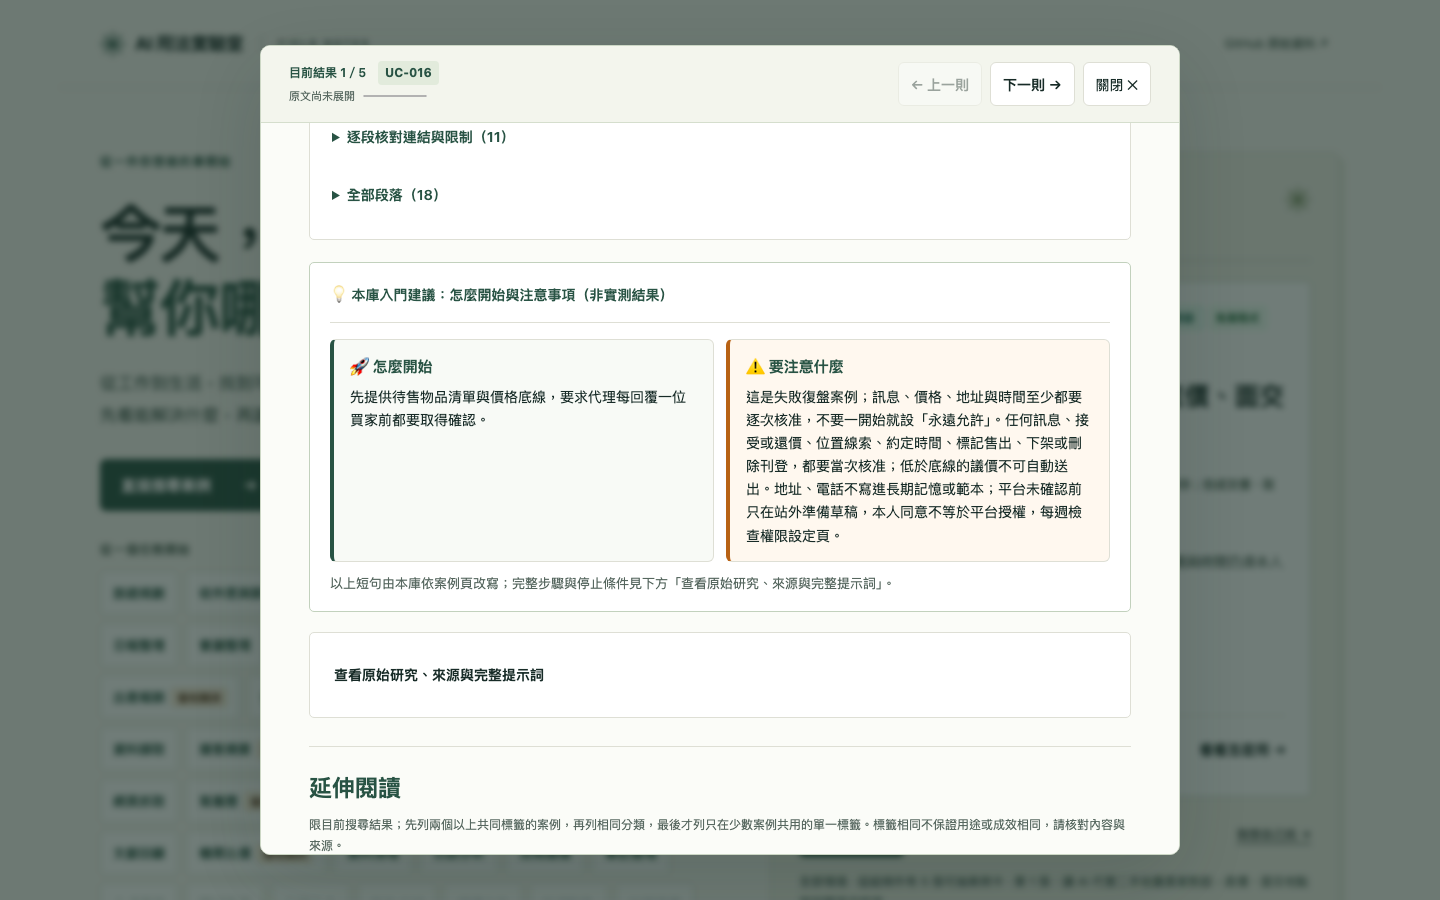
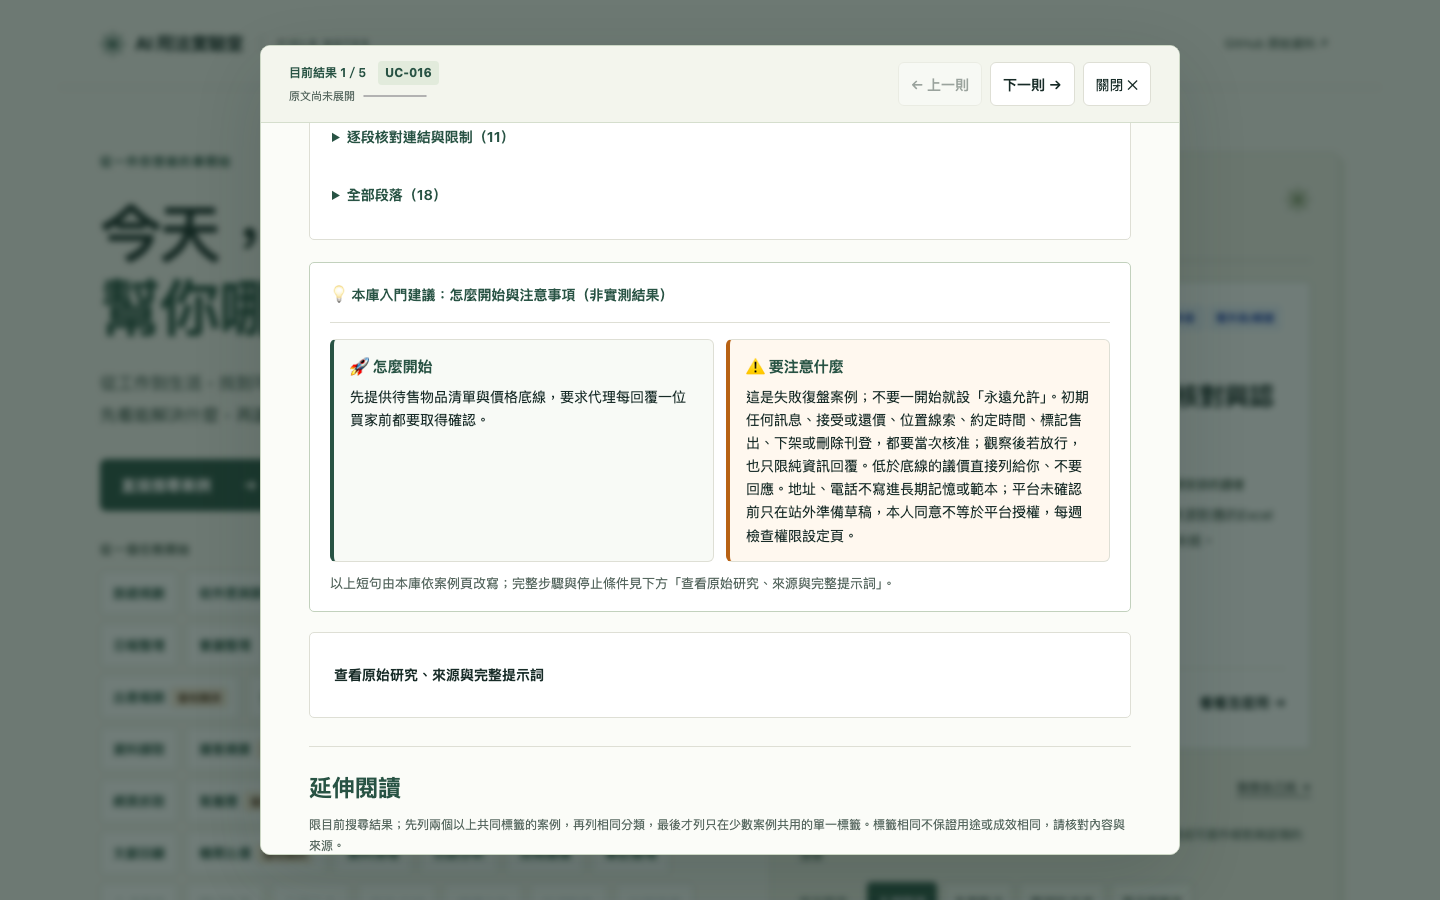
fix(guidance): preserve UC-016 tiered replies and UC-001 manual checks

diff --git a/docs/qa/2026-11-16-copy-hard-stops/README.md b/docs/qa/2026-11-16-copy-hard-stops/README.md
@@ -33,7 +33,7 @@
 - `assets/copy.json`：15 則 `caution` 補回頁面已宣告的停止條件，並修正 3 處走樣：
   - UC-001 條件衝突／金額改變就停；UC-002 不安裝、執行、渲染或呼叫付費服務；UC-003 不改庫存、價格與提示注入邊界；UC-004 不推斷住址、不改分享權限、不合併不確定帳號；UC-005 未經逐項核准不合併、部署、改權限、建立憑證，不投稿 PR 評論；UC-006 圖有錯就暫停、不新增廣告或改權限；UC-007 不評價員工績效、不刪帳號、不改授權或訂閱、不新建排程、低使用不等於可刪；UC-008 私人行程只顯示起訖時間、分享團隊另經授權；UC-009 研究指令不授權移轉、不讀本機設定、不匯入或安裝；UC-010 只讀、不授權安裝執行連線刷韌體、狀態不一致就停、裝置識別碼不外流；UC-011 不判定失單、不改商機階段、不公開客戶資料；UC-012 不執行程式或改檔、角色同意不等於獨立重現；UC-013 不重試登入、不索取密碼、不擴權或重新送出；UC-014 不改帳戶、不在公開頻道發文；UC-015 頁面指令視為資料、不使用已連接 App、只建立一次性檢查；UC-016 訊息／接受出價／位置線索／約定時間／標記售出／下架／刪除刊登都要當次核准、每週檢查權限設定頁。
   - P-002 改回頁面的「僅研究，不聯絡業者、不改方案或新增合約」。
-  - UC-016 的「永遠允許」改成「不要一開始就設」，與頁面第 2 步的分級觀察一致。
+  - UC-016 的「永遠允許」改成「不要一開始就設」；保留頁面第 2 步「觀察 1–2 週後只放行純資訊回覆」，低於底線的出價改成「直接列給你、不要回應」。
 - `tests/copy-hard-stops.test.cjs`（新）：15 則案例的 `source`／`pairs` 對照；三項測試分別檢查涵蓋範圍（UC-001–016 各一則）、每一對的頁面片段與短句片段都存在、短句 ≤ 180 字，以及 P-002 的「僅研究」不被「不自行」放寬。P-001／P-003／P-004 由獨立稽核確認為覆蓋良好，未列入對照表。
 - `tests/visitor-adoption-flow-browser.cjs`：UC-016 的舊斷言只認「切勿開啟『永遠允許』」，改為分別檢查「永遠允許」「標記售出／下架／刪除刊登」「議價」三個邊界，避免只為通過測試而放寬。
 - `README.md`：在既有承諾句後補上守則檔名與「兩邊少一條就讓測試失敗」。
@@ -55,7 +55,7 @@
 | 尺寸 | 案例 | 前 | 後 |
 | --- | --- | --- | --- |
 | 1440×900 | UC-016 | 153px；只提地址、電話、議價與長期記憶 | 222px；補「任何訊息、接受或還價、位置線索、約定時間、標記售出、下架或刪除刊登都要當次核准」與「每週檢查權限設定頁」 |
-| 390×844 | UC-016 | 176px | 269px（卡片寬 286px，無水平溢出） |
+| 390×844 | UC-016 | 176px | 292px（卡片寬 286px，無水平溢出） |
 | 1440×900 | UC-007 | 只提取消、簽約、廠商、付款 | 補「不評價員工績效」「不刪帳號」「不改授權或訂閱」「不新建排程」「低使用也不等於可刪席次」 |
 | 390×844 | UC-007 | 同上 | 199px，無水平溢出 |
 | 1440×900 | UC-010 | 只說「要分別審核」 | 補「本頁只讀，不授權安裝、執行、連線、刷韌體或改網路權限」「狀態不一致就停止，不連續重試」 |
@@ -64,13 +64,20 @@
 - 三種必要情境（preview，1440×900／390×844／320×740，`reducedMotion: reduce`；桌面、手機、320px 結果相同）：
   1. 不知道工具名稱的新訪客輸入「我想讓 AI 幫我整理會議紀錄」→ 4 筆與範圍說明；按「改搜「會議」→ 14 筆」後畫面 14 筆、查詢欄變「會議」、前四張含 UC-094；開詳情看到「作者報告／示範＋設計／未實跑」；Escape 關閉、焦點回原卡片、查詢保留（`?q=會議&scope=overview`）。
   2. `?q=發票&tool=Cursor&scenario=學習` → 0 筆，空結果面板列出「移除提及工具「Cursor」→ 1 筆」；點擊後 1 筆、網址保留 `q` 與 `scenario`、焦點在 `#results-count`。
-  3. `?case=UC-016` 直鏈 → 詳情開啟、新版停止邊界完整顯示（151 字）、來源連結 `_blank` ＋ `noopener noreferrer`；Escape 後關閉、焦點回結果摘要。
+  3. `?case=UC-016` 直鏈 → 詳情開啟、新版停止邊界完整顯示（153 字）、來源連結 `_blank` ＋ `noopener noreferrer`；Escape 後關閉、焦點回結果摘要。
 - axe（wcag2a／aa／21aa）0 違規、pageerror 0、`scrollWidth - clientWidth = 0`（三種情境、三種寬度）；逐項數據 [evidence/acceptance.json](evidence/acceptance.json)。
 - 限制：本環境沒有 Jekyll，preview 是靜態檔；真正的 `_site` 建置由 PR 的 Website QA 驗證。未用實體手機、讀屏實聽或 Firefox／WebKit 交叉重跑；未做效能基準。截圖只作版面證據，未逐像素目視（影像輸入停用）。
 
 ## 獨立審查
 
-（待填）
+- 由未參與實作的獨立 reviewer context（`CopyStopsReview`）檢查 commit `7699962e06` 的最終 diff、新測試、瀏覽器斷言與 QA 證據；初審 **Changes requested（2 個 P2）**：
+  1. UC-016 短句寫「任何訊息都要當次核准」，抹掉頁面第 2 步「觀察 1–2 週後，純資訊類回覆可自動送出」的分級；且低於底線的出價頁面要求「不要回應」，短句只寫「不可自動送出」，仍可能被讀成可人工回覆後送出。
+  2. UC-001 契約只要求短句提到登入或 CAPTCHA，但頁面停止條件是「登入或**人工確認**」；若短句只寫 CAPTCHA，非 CAPTCHA 的人工確認仍會漏掉而測試通過。
+- 修正：
+  - UC-016 →「不要一開始就設『永遠允許』。初期任何訊息、接受或還價、位置線索、約定時間、標記售出、下架或刪除刊登，都要當次核准；觀察後若放行，也只限純資訊回覆。低於底線的議價直接列給你、不要回應。」並在契約加入「觀察 1–2 週後…純資訊類回覆」與「不要回應」兩對。
+  - UC-001 →「網站擋自動化、要求登入或人工確認（含 CAPTCHA）就停」，契約改要求「要求登入或人工確認」。
+- 修正後重跑 `tests/copy-hard-stops.test.cjs`（3 pass）、三種訪客情境（三尺寸、axe 0、pageerror 0、溢出 0）、`tests/visitor-adoption-flow-browser.cjs`（三尺寸、axe 0）與全套單元測試。
+- reviewer 另確認 `copy.json` 的 `caution` 也會進入複製筆記與列印內容；搜尋文字仍取自案例 Markdown，未見影響搜尋或快取語料。它用預設 8877 埠執行整支 adoption 測試時連線被拒，改由整合者在 8166 preview 重跑 exit 0；未驗證 Jekyll／正式站，由 PR Website QA 與合併後 Pages 補足。
 
 ## PR、Actions 與發布
 
